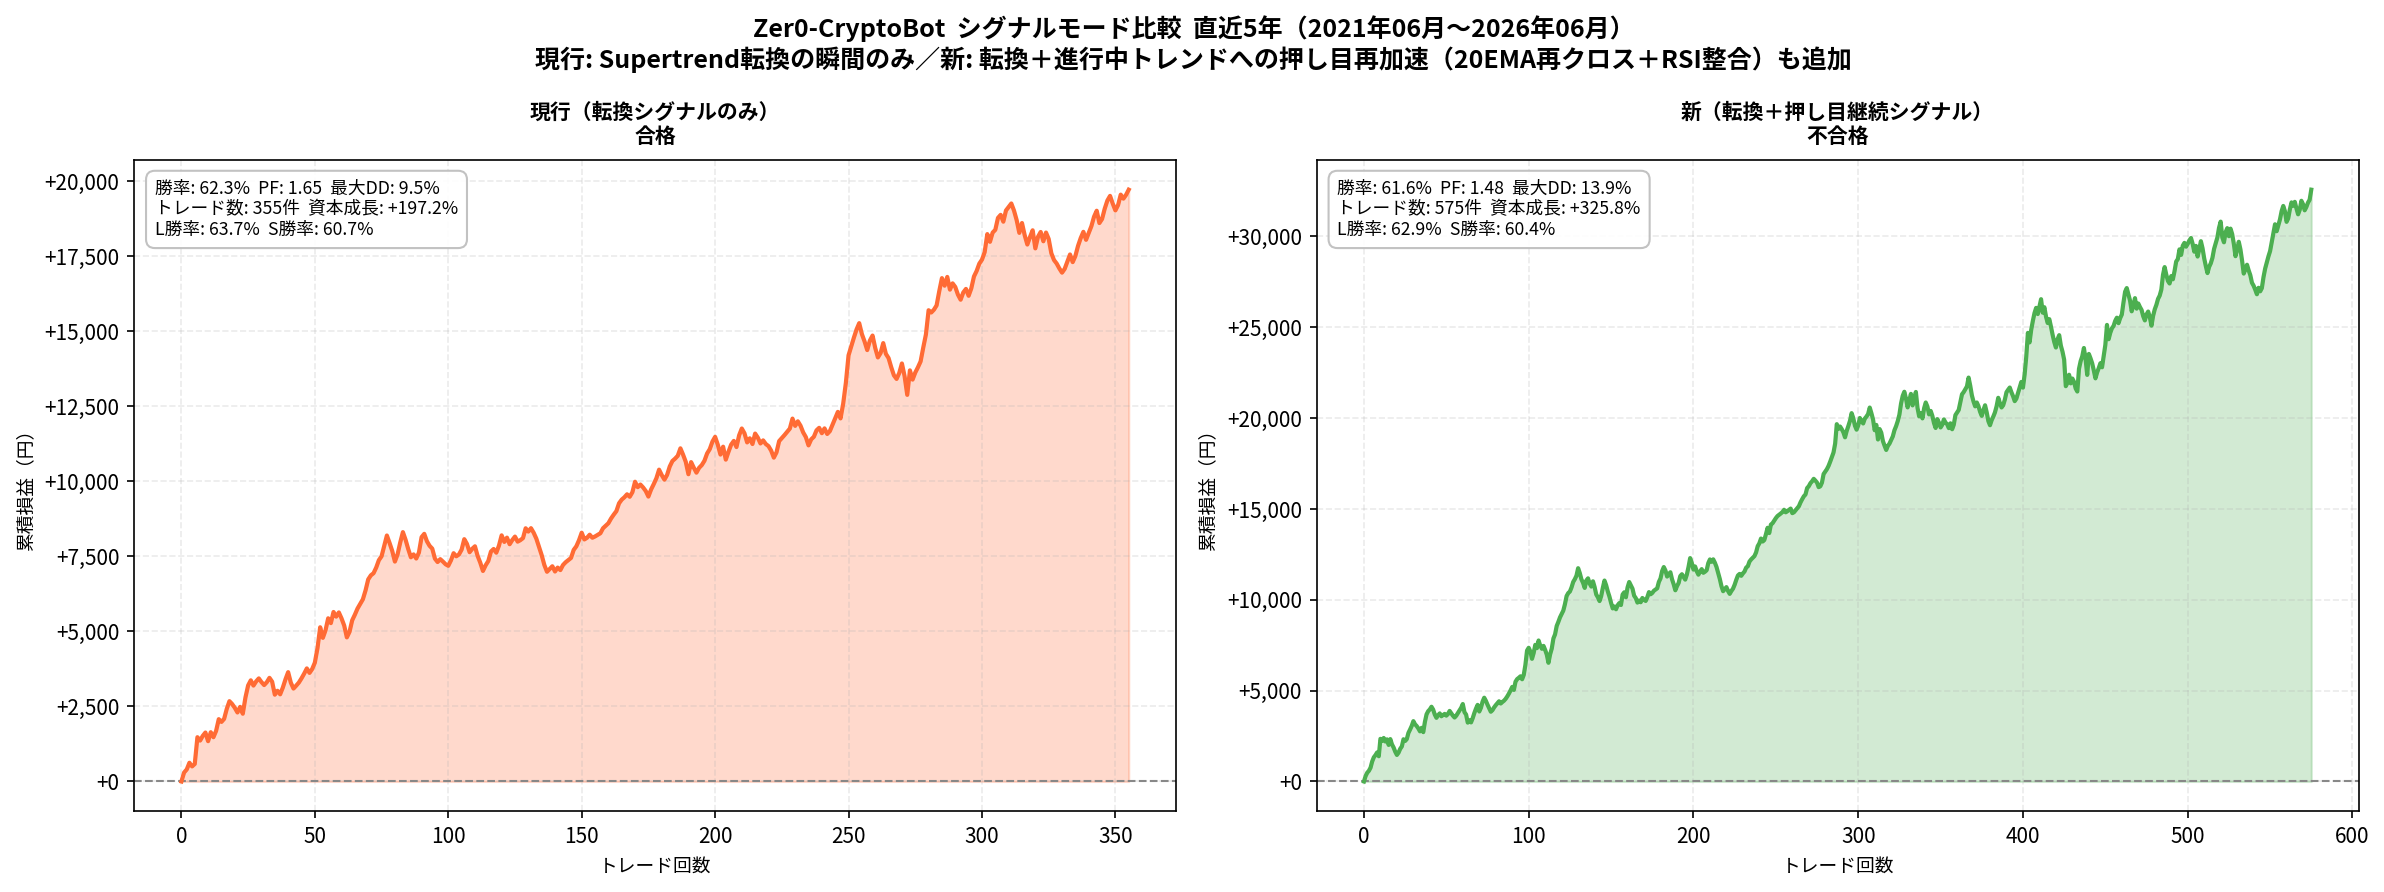
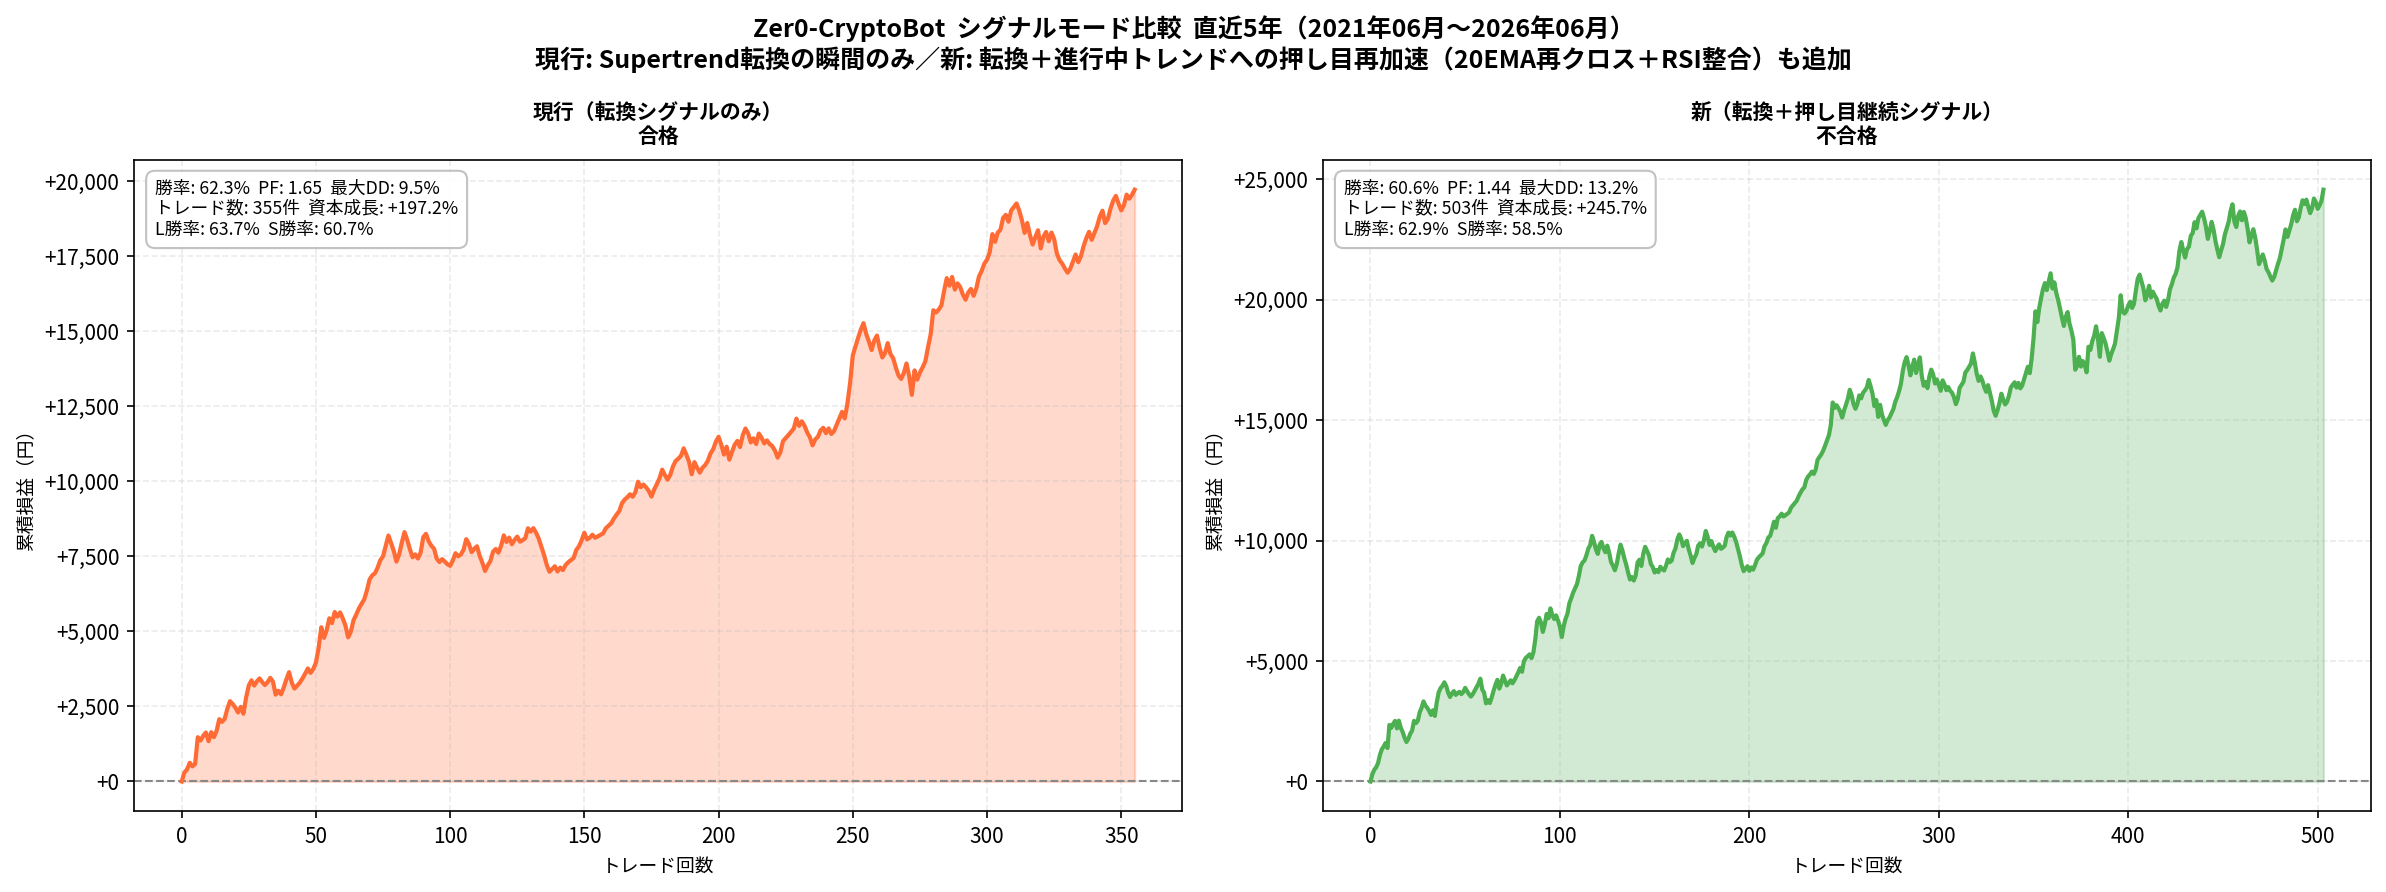
auto-sync: 2026-06-07 13:26

diff --git a/006_zer0-cryptobot/backtest/backtest.py b/006_zer0-cryptobot/backtest/backtest.py
@@ -47,6 +47,10 @@ BINANCE_MAX = 1000                  # 1リクエストあたりの最大本数
 EMA_PERIOD  = 200
 EMA_SHORT   = 20
 RSI_PERIOD  = 14
+PULLBACK_LOOKBACK   = 6     # 押し目の深さを判定する直近本数(4h足6本=24時間)
+TREND_STRENGTH_PCT  = 0.05  # 200EMAからの乖離率がこれ以上 → 「強いトレンド」とみなす
+RSI_SHALLOW_MAX     = 60    # ショート押し目: 直近のRSI戻りピークがこれ未満 → 浅い押し目(強トレンド継続)
+RSI_SHALLOW_MIN     = 40    # ロング押し目: 直近のRSI押しの谷がこれ超 → 浅い押し目(強トレンド継続)
 ATR_PERIOD  = 8
 ST_MULT     = 2.5
 VOL_PERIOD      = 20
@@ -189,6 +193,11 @@ def add_indicators(df: pd.DataFrame) -> pd.DataFrame:
     # 押し目→再加速トリガー: 20EMAを逆方向に抜けたあと、トレンド方向へ戻りクロス
     df["ema20_cross_up"]   = (df["close"] > df["ema20"]) & (df["close"].shift(1) <= df["ema20"].shift(1))
     df["ema20_cross_down"] = (df["close"] < df["ema20"]) & (df["close"].shift(1) >= df["ema20"].shift(1))
+
+    # トレンド強度（200EMAからの乖離率）と、直近の押し目の深さ（RSIの戻り高値/安値）
+    df["trend_strength"] = (df["close"] - df["ema200"]).abs() / df["ema200"]
+    df["rsi_max_lb"]     = df["rsi"].rolling(PULLBACK_LOOKBACK).max()
+    df["rsi_min_lb"]     = df["rsi"].rolling(PULLBACK_LOOKBACK).min()
     return df
 
 
@@ -448,7 +457,9 @@ def run_backtest(btc_df: pd.DataFrame, coin_dfs: dict, strategy: str = "old",
                 elif (signal_mode == "flip_pullback"
                       and row["st_dir"] == 1
                       and row["ema20_cross_up"]
-                      and row["rsi"] > 50):
+                      and row["rsi"] > 50
+                      and row["trend_strength"] >= TREND_STRENGTH_PCT
+                      and row["rsi_min_lb"] > RSI_SHALLOW_MIN):
                     sig_type = "pullback"
                 else:
                     continue
@@ -460,7 +471,9 @@ def run_backtest(btc_df: pd.DataFrame, coin_dfs: dict, strategy: str = "old",
                 elif (signal_mode == "flip_pullback"
                       and row["st_dir"] == -1
                       and row["ema20_cross_down"]
-                      and row["rsi"] < 50):
+                      and row["rsi"] < 50
+                      and row["trend_strength"] >= TREND_STRENGTH_PCT
+                      and row["rsi_max_lb"] < RSI_SHALLOW_MAX):
                     sig_type = "pullback"
                 else:
                     continue
